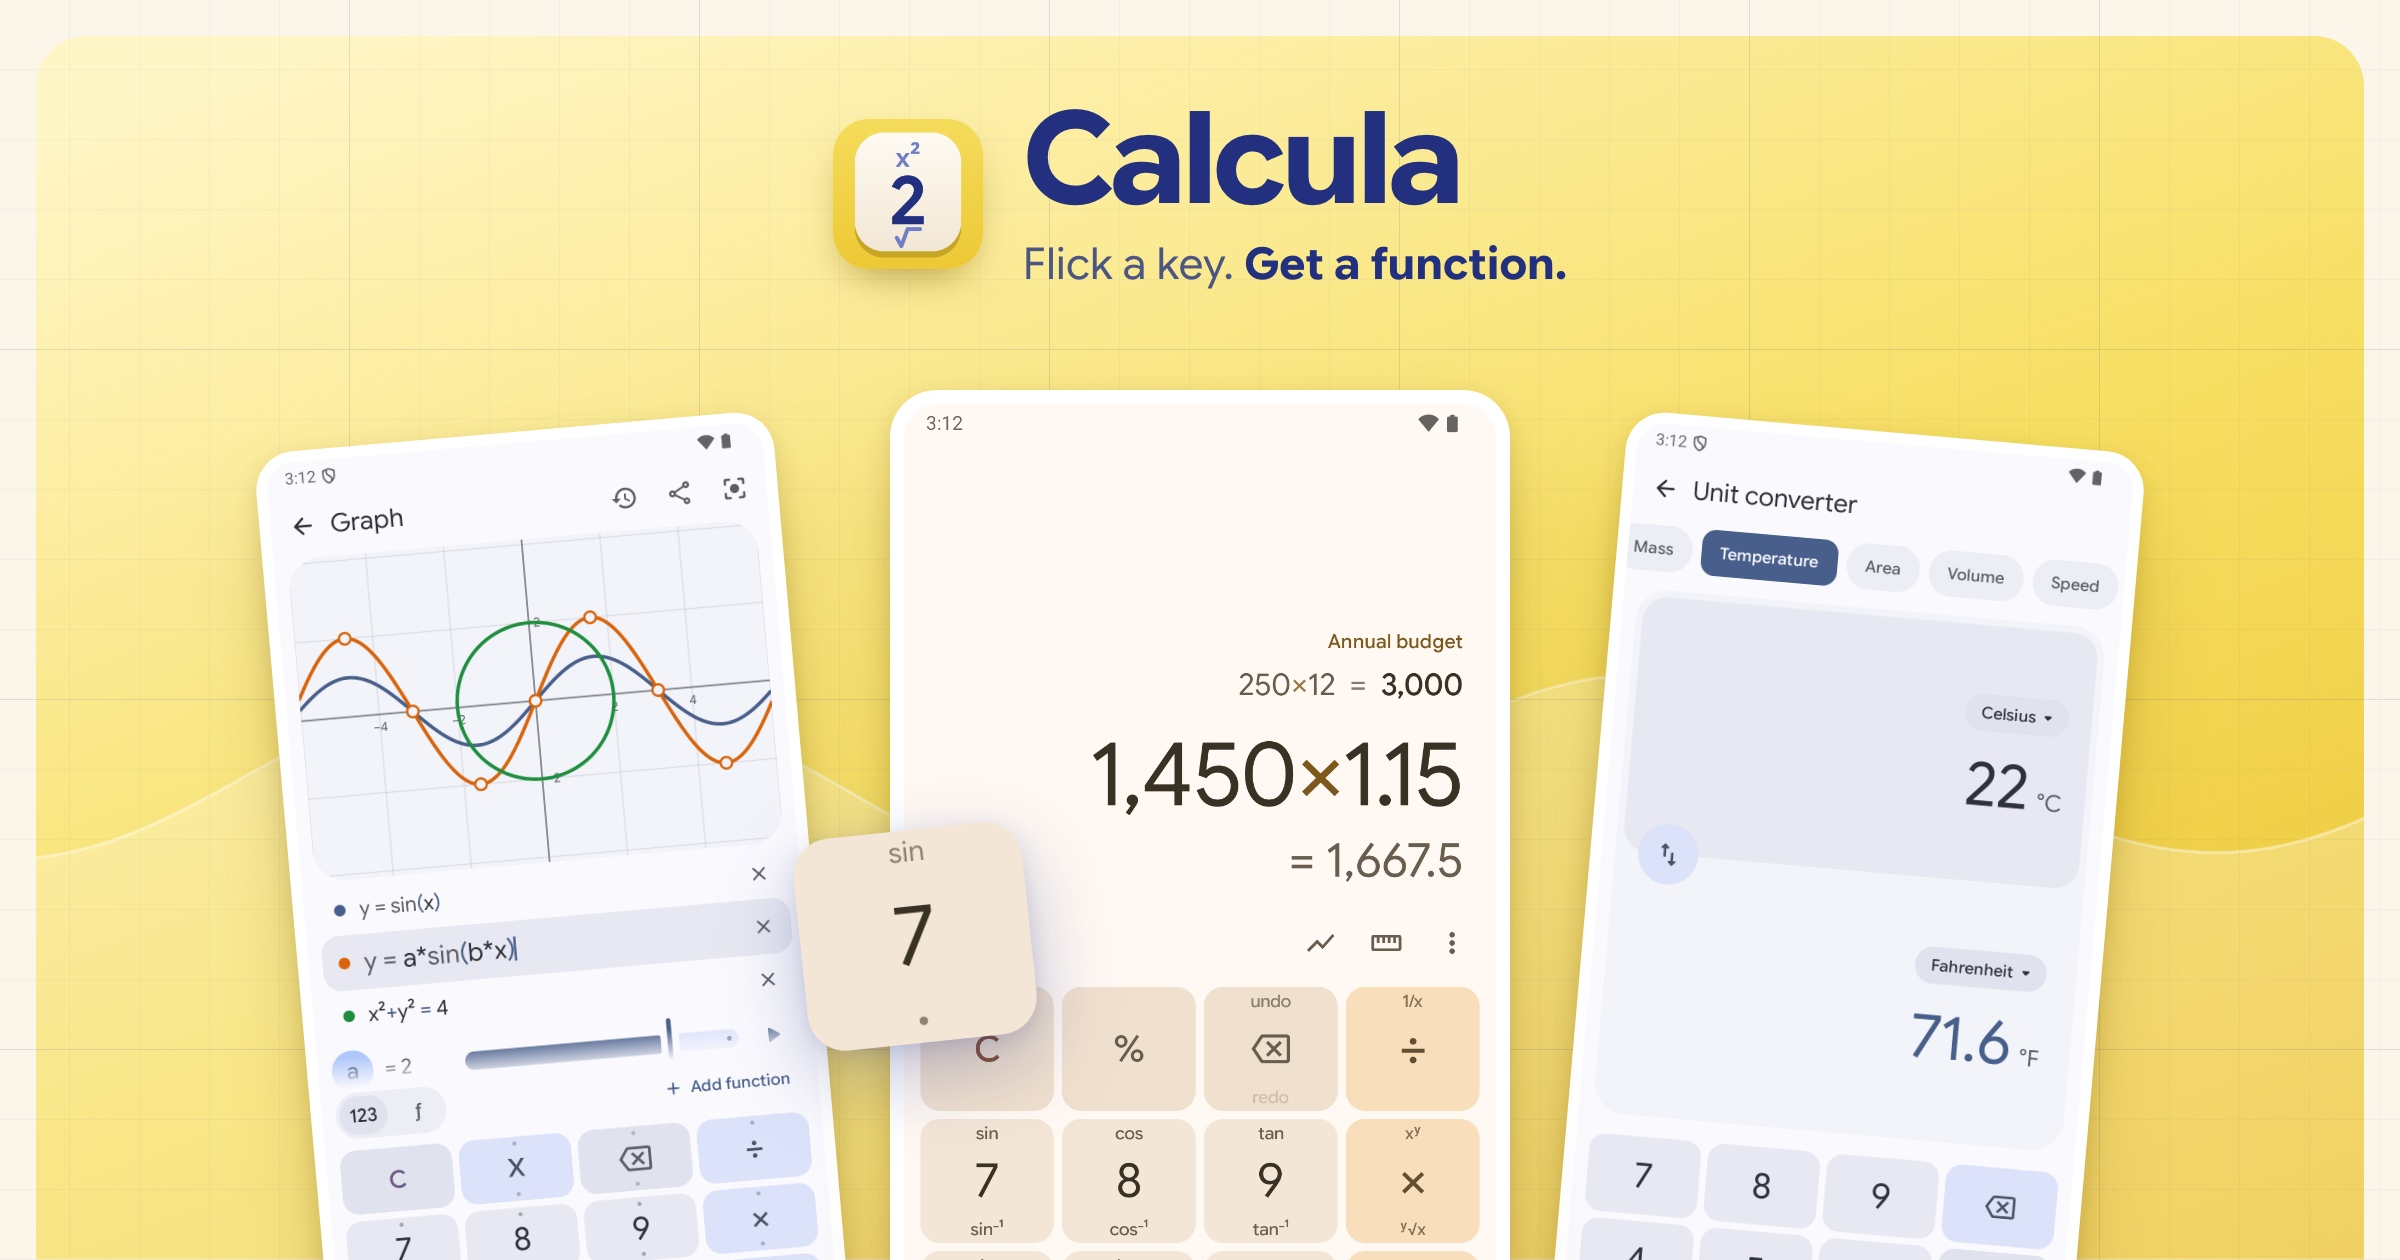
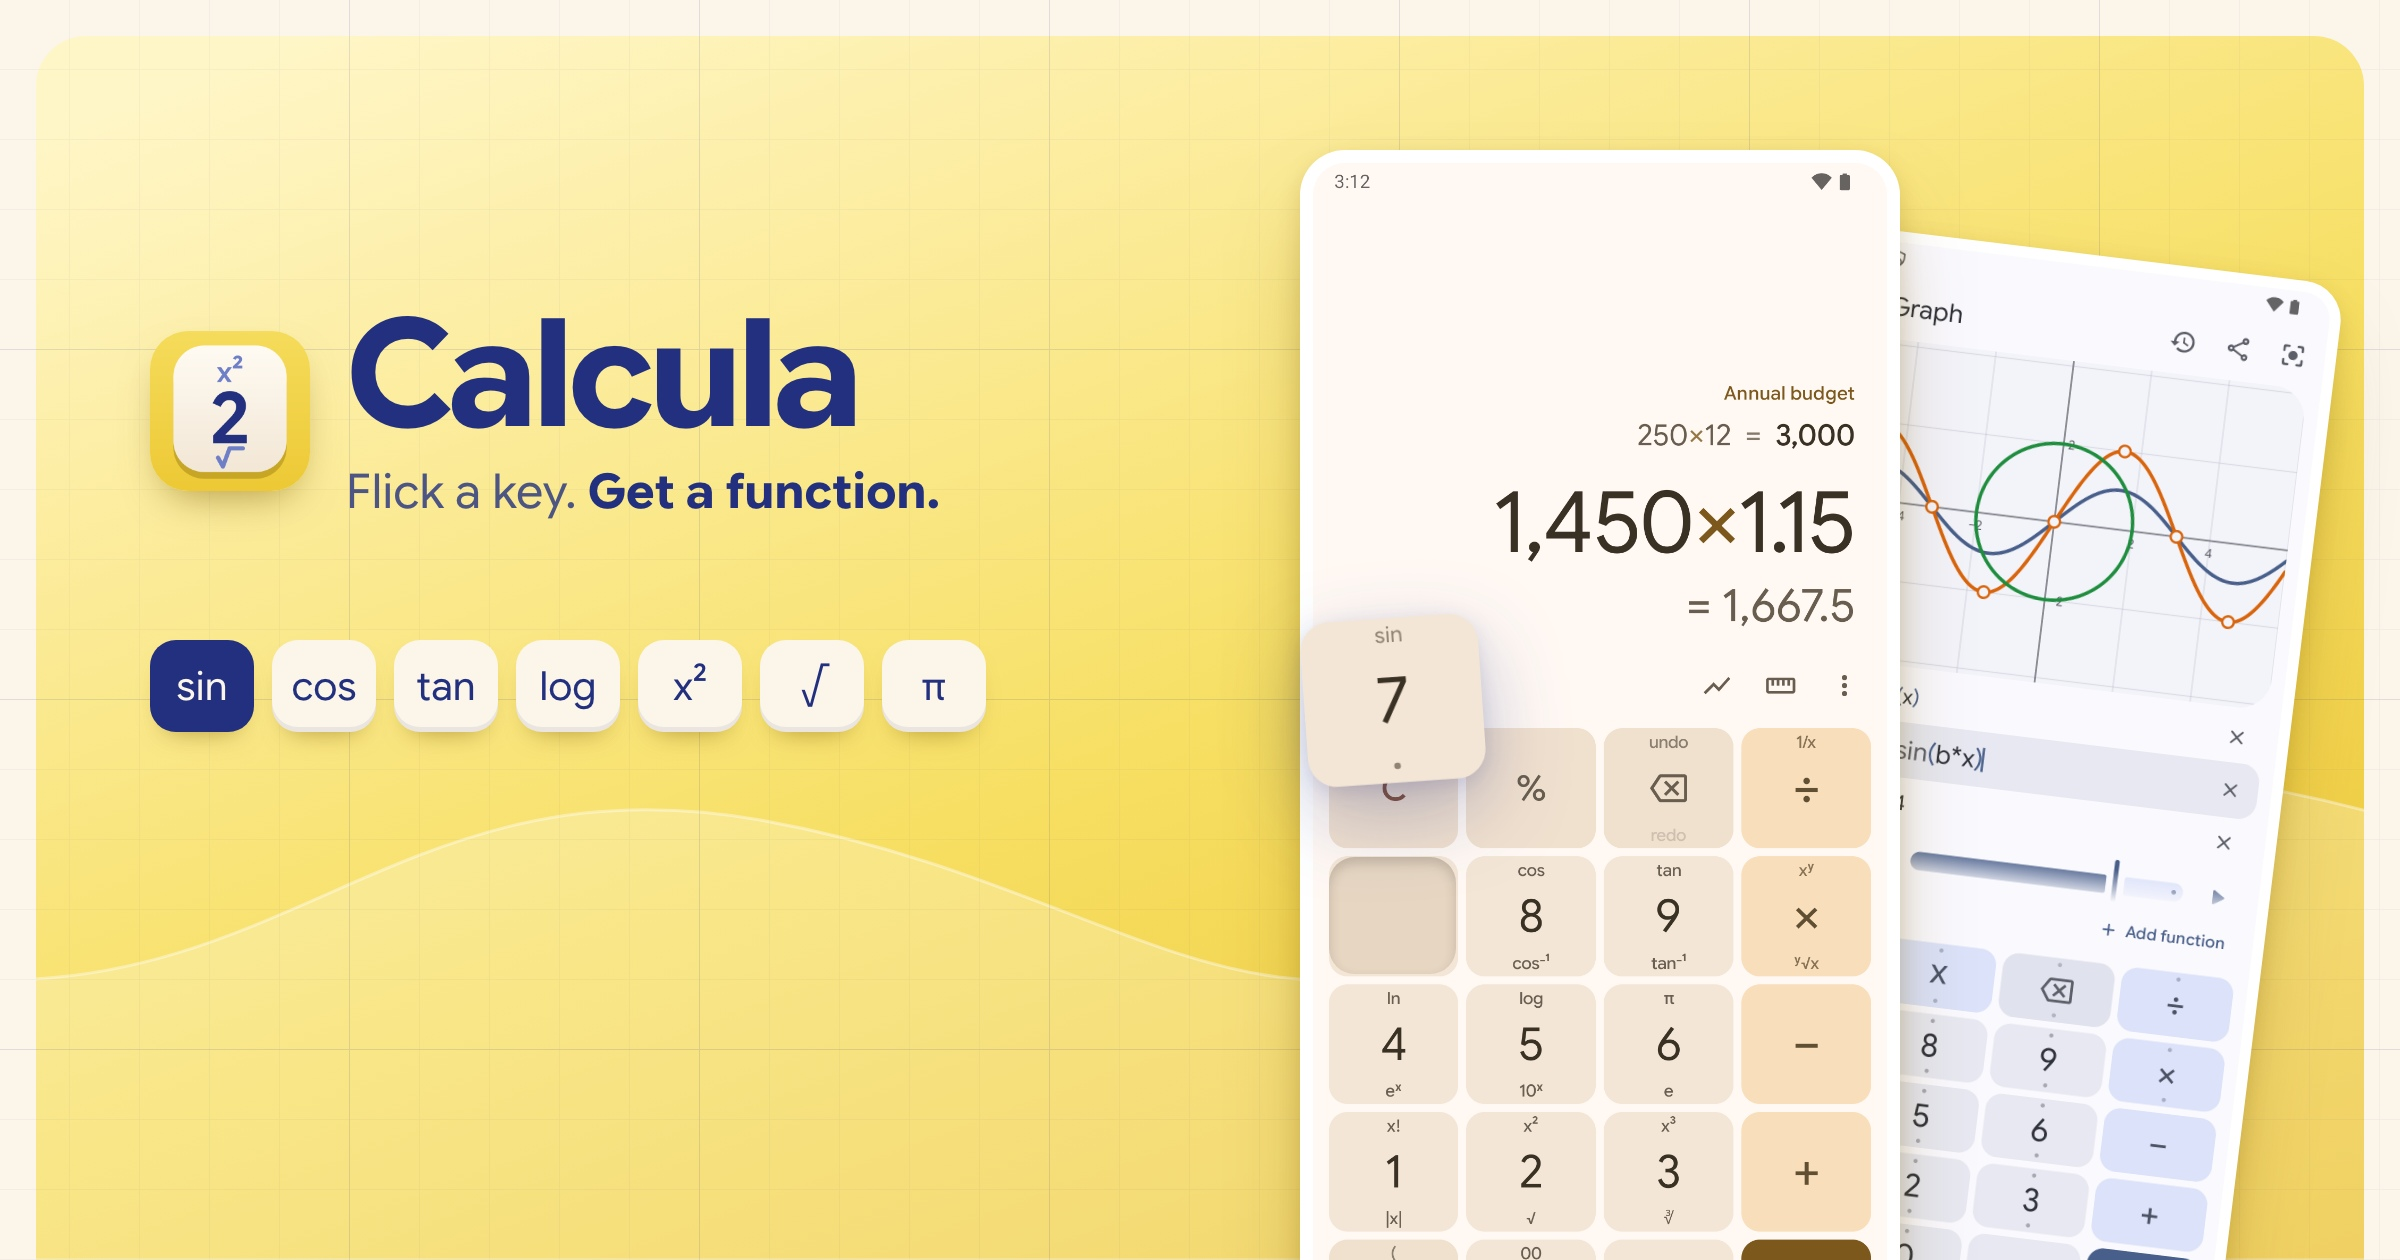
README header: the 7 key lifted out of its slot, the functions under the name, a graph behind

diff --git a/store-listing/theme.css b/store-listing/theme.css
@@ -122,20 +122,21 @@ header p{margin:26px 0 0;font-size:40px;line-height:1.24;letter-spacing:-.5px;wh
 .device-label.before span{font-size:40px;font-weight:400;letter-spacing:-.5px;color:#22307fa6}
 .device-label.after span{font-size:44px;font-weight:700;letter-spacing:-1.2px;color:var(--ink)}
 
-/* README name card: one yellow sheet with the wave, the icon and name centred, three phones rising, the sin key lifted beside the keypad. */
-.readme .hero .hero-sheet{position:absolute;left:36px;right:36px;top:36px;bottom:-80px;overflow:hidden;border-radius:50px;z-index:0;background:linear-gradient(160deg,#fff6c8 4%,#f7df63 52%,#eabf2c)}
-.readme .hero .hero-wave{position:absolute;left:-36px;top:-36px;width:2400px;height:1260px}
-.readme .hero .hero-wave path{fill:#fff;fill-opacity:.24;stroke:#fff;stroke-opacity:.4;stroke-width:3}
-.readme .hero .identity{top:96px;color:#22307f}
-.readme .hero .identity img{width:150px;height:150px;border-radius:24%;box-shadow:0 18px 40px -16px #7a5a0099}
-.readme .hero .identity span{font-size:128px;letter-spacing:-5px}
-.readme .hero .identity small{font-size:44px;font-weight:400;color:#22307fcc}
-.readme .hero .identity small em{font-weight:700;color:#22307f}
-.readme .hero .device{background:#fff;box-shadow:0 8px 22px #7a5a0030,0 50px 90px -30px #7a5a0080}
-.readme .hero .left{transform:rotate(-5deg)}
-.readme .hero .right{transform:rotate(5deg)}
-.readme .hero .key{left:800px;top:830px;width:230px;z-index:6}
-.readme .hero.named .left,.readme .hero.named .right{top:430px;width:520px}
-.readme .hero.named .left{left:300px}
-.readme .hero.named .right{left:1580px}
-.readme .hero.named .center{top:390px}
+/* README name card: the flick itself. Name and tagline on the left with the functions a flick away lined up
+   like keys; the keypad on the right with its 7 key lifted out along a dotted arc; a graph of sine behind. */
+.readme .masthead .hero-sheet{position:absolute;left:36px;right:36px;top:36px;bottom:-80px;overflow:hidden;border-radius:50px;z-index:0;background:linear-gradient(160deg,#fff6c8 4%,#f7df63 52%,#eabf2c)}
+.readme .masthead .hero-wave{position:absolute;left:-36px;top:-36px;width:2400px;height:1260px}
+.readme .masthead .hero-wave path{fill:#fff;fill-opacity:.24;stroke:#fff;stroke-opacity:.4;stroke-width:3}
+.readme .masthead .identity{left:150px;right:auto;top:300px;justify-content:start;column-gap:36px;color:#22307f}
+.readme .masthead .identity img{width:160px;height:160px;border-radius:24%;box-shadow:0 18px 40px -16px #7a5a0099}
+.readme .masthead .identity span{font-size:150px;letter-spacing:-6px}
+.readme .masthead .identity small{font-size:48px;font-weight:400;color:#22307fcc}
+.readme .masthead .identity small em{font-weight:700;color:#22307f}
+.readme .masthead .flicks{position:absolute;left:150px;top:640px;display:flex;gap:18px;z-index:5}
+.readme .masthead .flicks span{display:grid;place-items:center;min-width:104px;height:92px;padding:0 18px;border-radius:26px;background:#fbf5ea;color:#22307f;font-size:40px;box-shadow:inset 0 -5px 0 #22307f14,0 14px 26px -16px #7a5a0099}
+.readme .masthead .flicks span:nth-child(1){background:#22307f;color:#fbf5ea}
+.readme .masthead .device{background:#fff;box-shadow:0 8px 22px #7a5a0030,0 50px 90px -30px #7a5a0080}
+.readme .masthead .back{left:1760px;top:250px;width:520px;transform:rotate(7deg);z-index:2}
+.readme .masthead .front{left:1300px;top:150px;width:600px;z-index:3}
+.readme .masthead .key{left:1304px;top:618px;width:178px;z-index:6;transform:rotate(-4deg)}
+.readme .masthead .flick-slot{position:absolute;left:1329px;top:857px;width:127px;height:117px;border-radius:26px;z-index:4;background:#e6d6c2;box-shadow:inset 0 6px 12px #3a312533}

diff --git a/store-listing/theme.js b/store-listing/theme.js
@@ -62,9 +62,11 @@ export default {
       return;
     }
     if (slide.identity) {
-      // The name card: one yellow sheet, the app's name on it, three phones rising and the sin key beside them.
-      main.insertAdjacentHTML('afterbegin', `<section class="hero-sheet"><svg class="hero-wave" viewBox="0 0 2400 1260" aria-hidden="true"><path d="M0 860 C220 860 330 640 600 690 S985 965 1210 860 S1530 630 1760 690 S2140 945 2400 800 V1260 H0 Z"/></svg></section>`);
-      key(main, 'The 7 key, with sin a flick away');
+      // The name card is the flick itself: the name on the left, the keypad on the right, and its 7 key
+      // lifted straight up out of its slot, which stays empty, sin showing. The functions a flick away line up under the name.
+      main.insertAdjacentHTML('afterbegin', `<section class="hero-sheet"><svg class="hero-wave" viewBox="0 0 2400 1260" aria-hidden="true"><path d="M0 980 C300 980 420 760 760 820 S1240 1060 1500 940 S1980 700 2400 820 V1260 H0 Z"/></svg></section>`);
+      main.insertAdjacentHTML('beforeend', `<div class="flicks" aria-hidden="true">${['sin', 'cos', 'tan', 'log', 'x²', '√', 'π'].map(f => `<span>${f}</span>`).join('')}</div><div class="flick-slot"></div>`);
+      key(main, 'The 7 key, flicked up for sin');
       return;
     }
     if (slide.layout === 'tools') {
